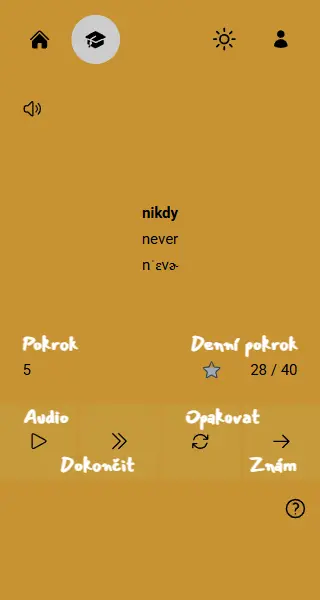
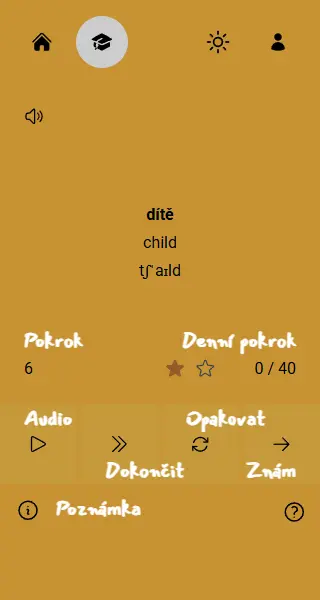
fix: change revealed screenshots for new with

diff --git a/frontend/src/features/practice/buttons/NoteButton.tsx b/frontend/src/features/practice/buttons/NoteButton.tsx
@@ -21,7 +21,7 @@ export default function NoteButton({ onClick, title, className = '' }: NoteButto
       className={`note-btn-pos absolute mr-2 cursor-pointer self-end p-4 ${className}`}
     >
       <InfoIcon />
-      <HelpText className="top-0 left-4 flex flex-col items-end">{title}</HelpText>
+      <HelpText className="top-3 left-12 flex flex-col items-end">{title}</HelpText>
     </button>
   );
 }